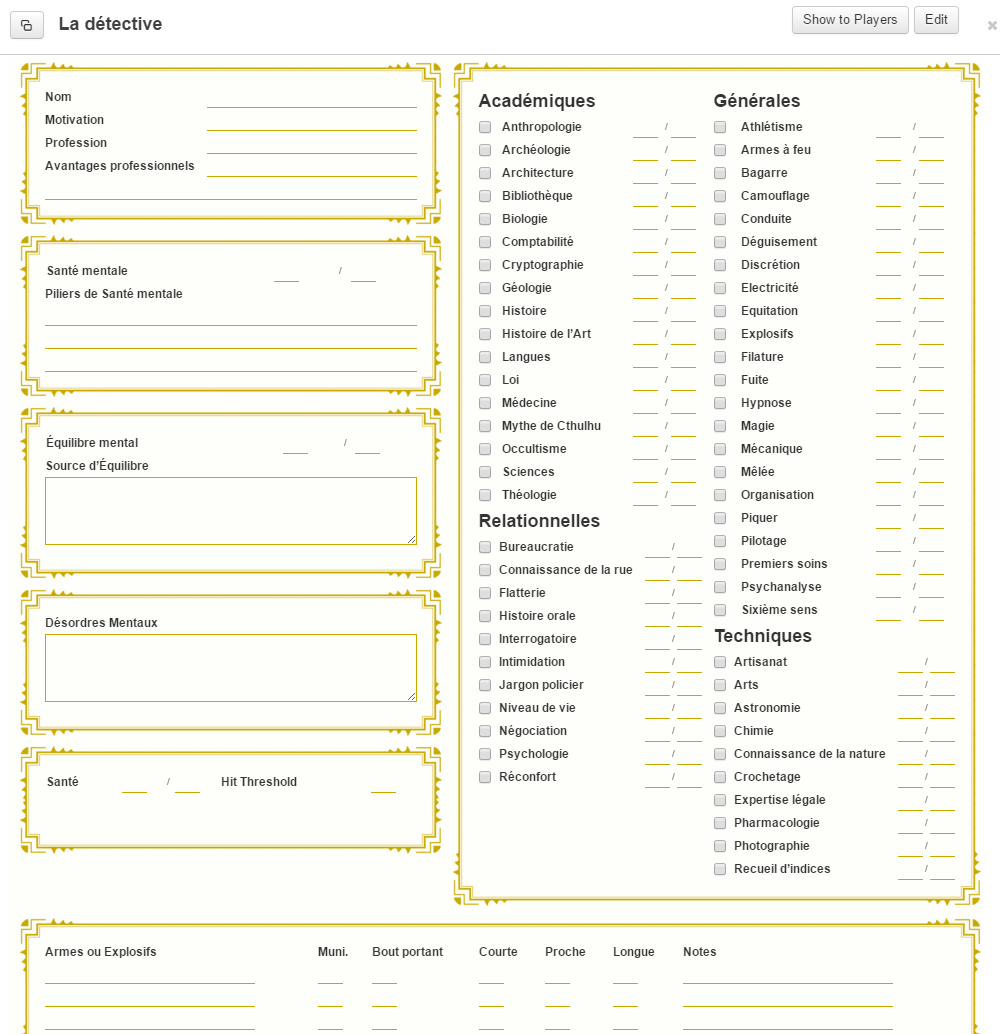
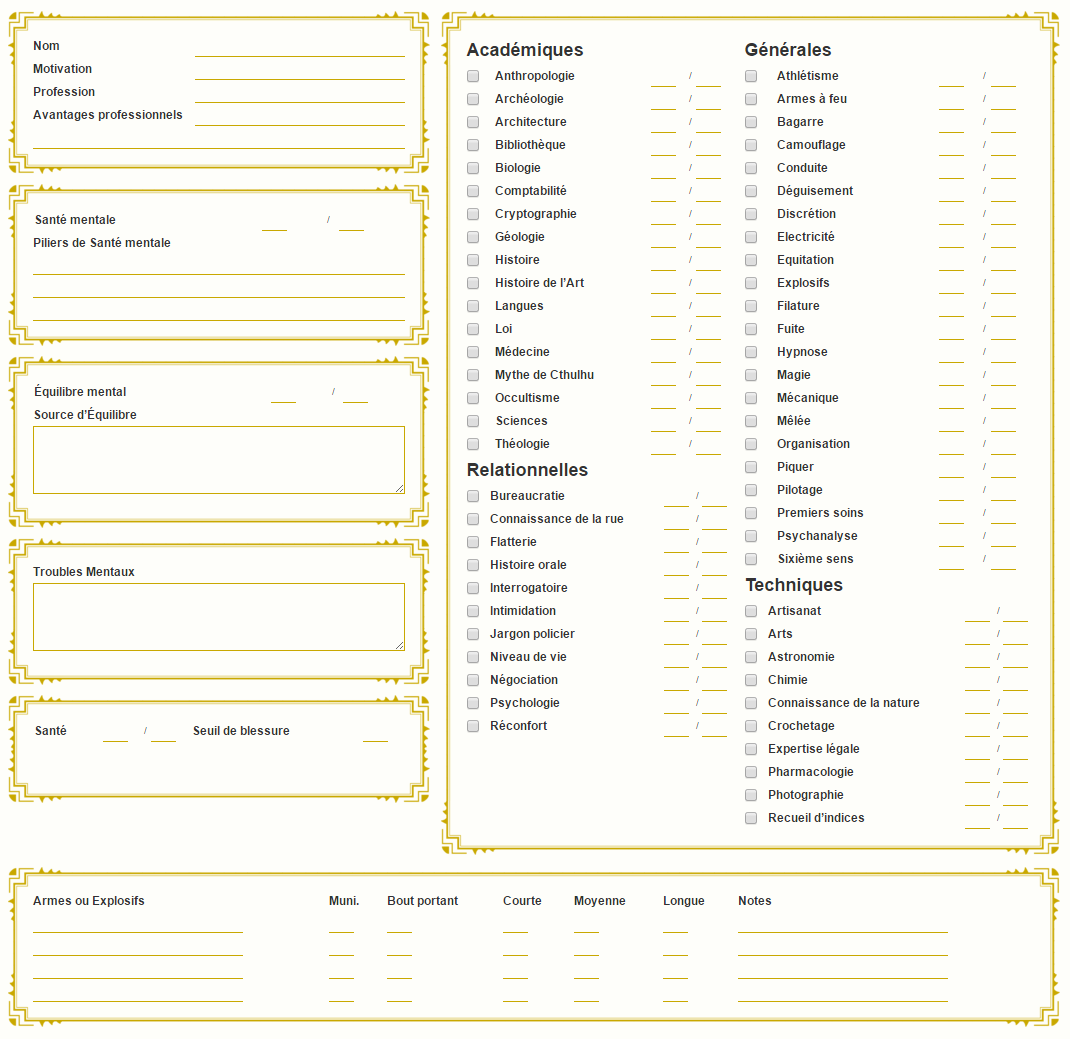
ToC v1

diff --git a/Trail of Cthulhu_french/tocvf.html b/Trail of Cthulhu_french/tocvf.html
@@ -95,7 +95,7 @@
                 <table class="sheet-mental-disorders">
                     <tr>
                         <td>
-                            <label>Désordres Mentaux</label>
+                            <label>Troubles Mentaux</label>
                         </td>
                     </tr>
                     <tr>
@@ -116,7 +116,7 @@
                                     <td><input type="text" class="number" name="attr_health_pool"/></td>
                                     <td>/</td>
                                     <td><input type="text" class="number" name="attr_health_rating"/></td>
-                                    <td><label>Hit Threshold</label></td>
+                                    <td><label>Seuil de blessure</label></td>
                                     <td><input type="text" class="number" name="attr_hit_threshold"/></td>
                                 </tr>
                             </table>
@@ -595,7 +595,7 @@
                         <td><label>Muni.</label></td>
                         <td><label>Bout portant</label></td>
                         <td><label>Courte</label></td>
-                        <td><label>Proche</label></td>
+                        <td><label>Moyenne</label></td>
                         <td><label>Longue</label></td>
                         <td><label>Notes</label></td>
                     </tr>
@@ -641,9 +641,3 @@
         </td>
     </tr>
 </table>
-
-
-
-
-
-

diff --git a/Trail of Cthulhu_french/readme.md b/Trail of Cthulhu_french/readme.md
@@ -1,8 +1,8 @@
 # Feuille de Personnage Trail of Cthulhu pour Roll20
 
-Traduction et adaptation de la feuille Trail of Cthulhu VO de Michael Heilemann.
+Traduction et adaptation en français de la feuille Trail of Cthulhu VO de Michael Heilemann.
 
-#Version 1.0 (2015-12-26)
+#Version 1.0 (2015-12-27)
 
 Création de la fiche.
 
